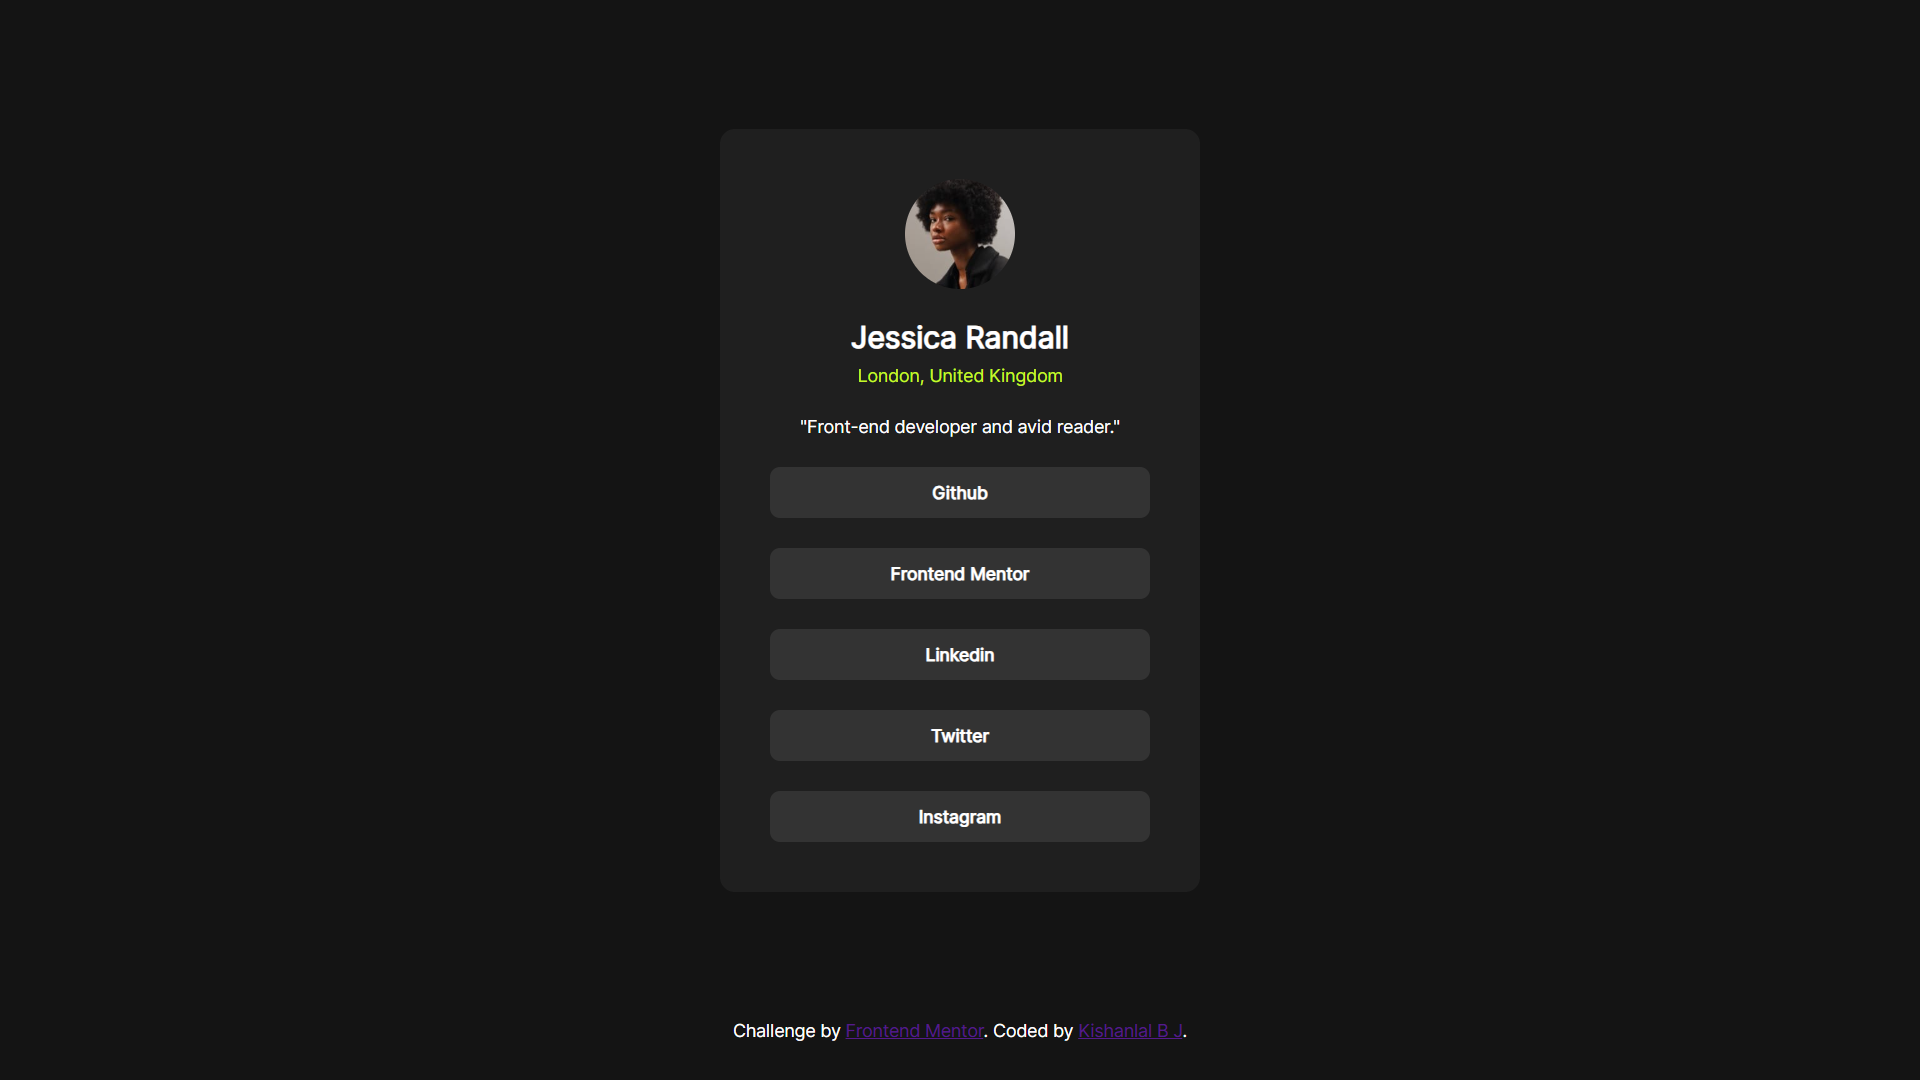
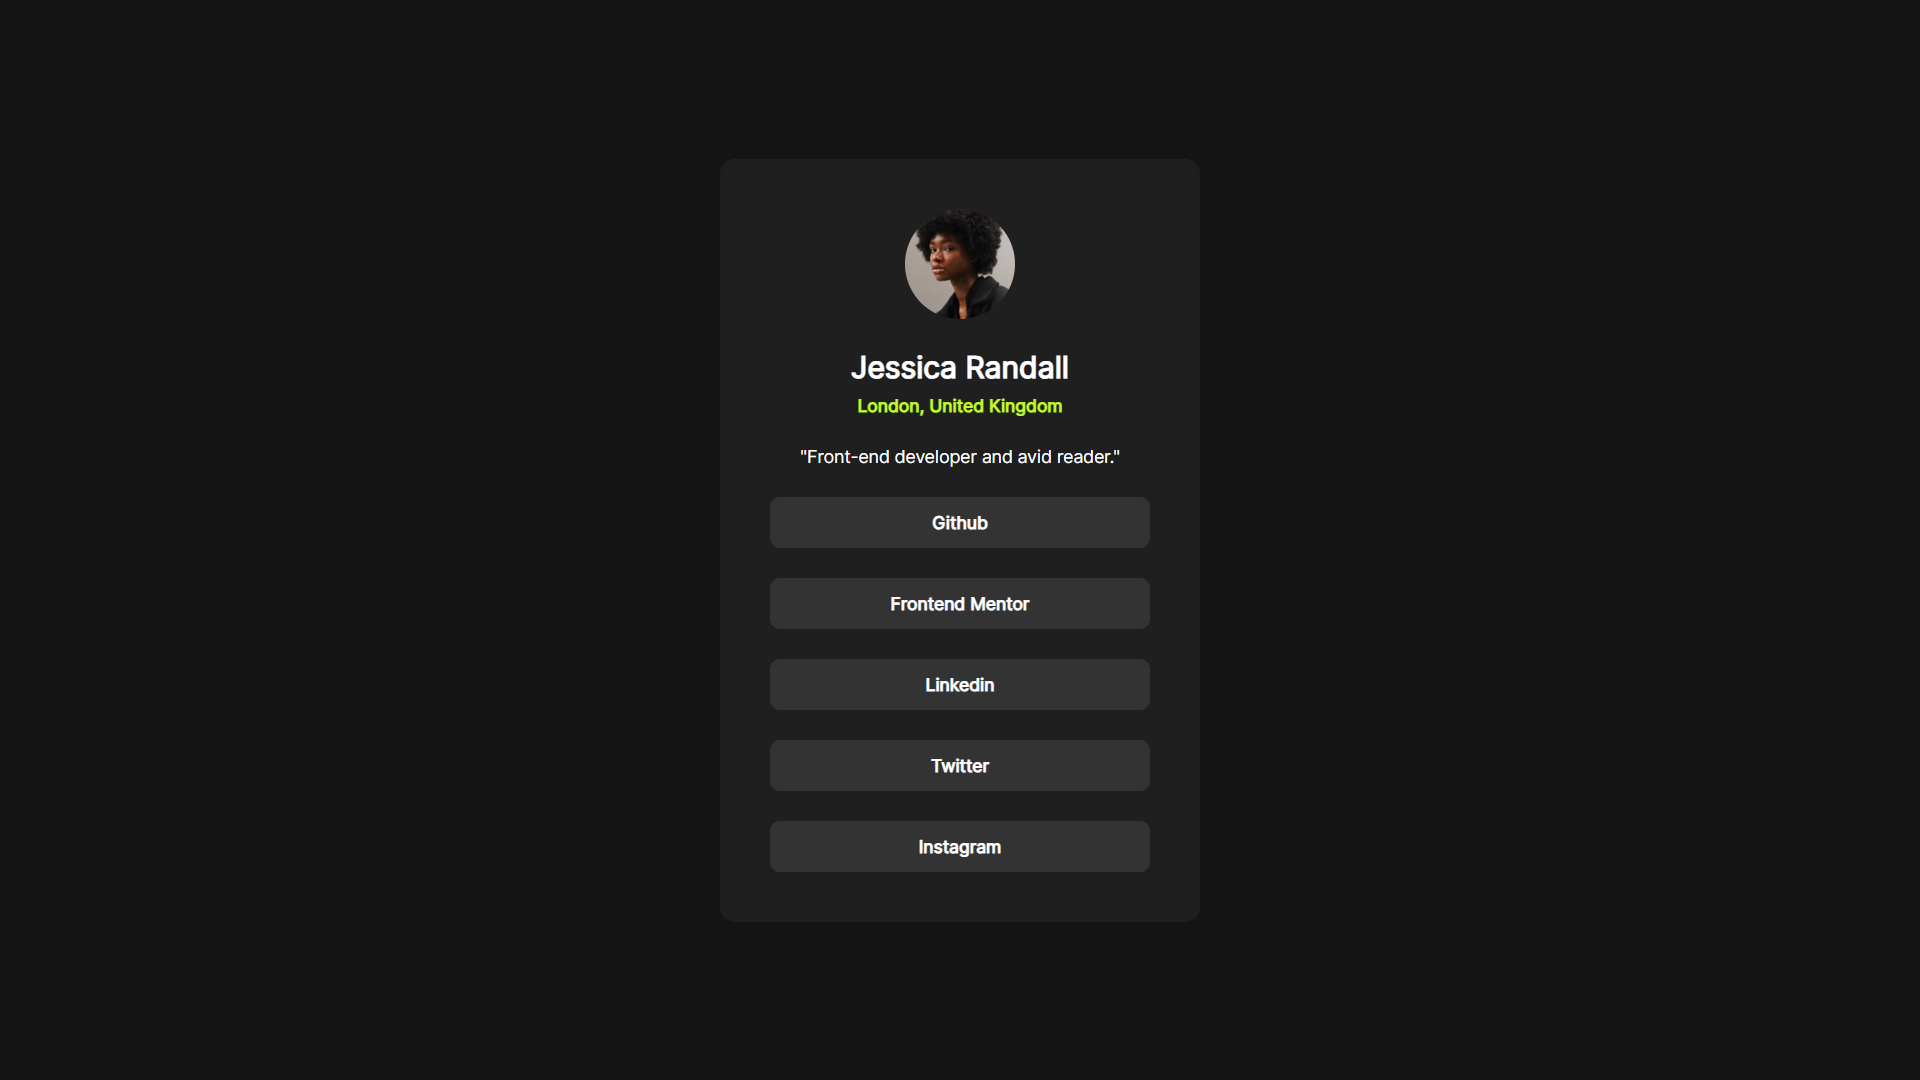
fix: few minor css fixes

diff --git a/index.html b/index.html
@@ -37,11 +37,11 @@
       </section>
     </main>
 
-    <div class="attribution">
+    <!-- <div class="attribution">
       Challenge by
       <a href="https://www.frontendmentor.io?ref=challenge" target="_blank"
         >Frontend Mentor</a
       >. Coded by <a href="https://github.com/kishanlalbj">Kishanlal B J</a>.
-    </div>
+    </div> -->
   </body>
 </html>

diff --git a/styles.css b/styles.css
@@ -42,7 +42,7 @@ body {
   flex-direction: column;
   align-items: center;
   justify-content: center;
-  height: calc(100vh - 3rem);
+  height: 100vh;
 }
 
 .avatar {
@@ -60,6 +60,7 @@ body {
   color: var(--button-color);
   text-align: center;
   margin-top: 8px;
+  font-weight: 600;
 }
 
 h1 {
